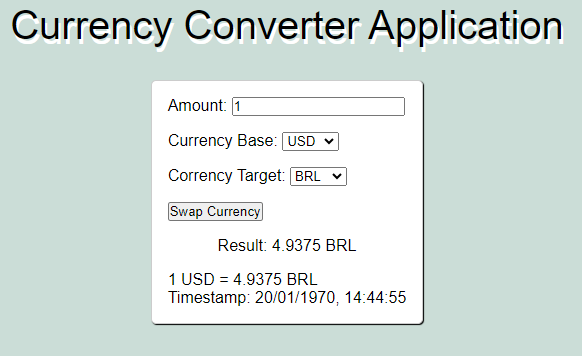
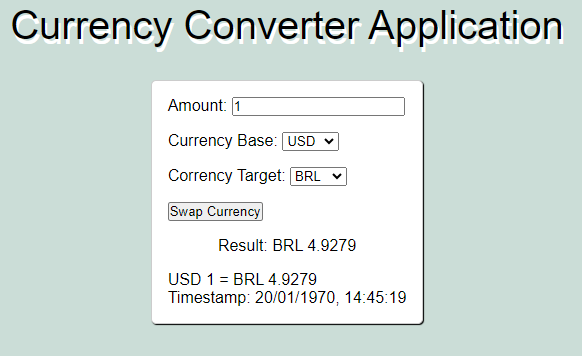
Finalização do projeto
- Resolvido problema com CORS na API, foi adicionado o middleware de CORS no backend.

- Removido código provisório do frontend, e adicionada lógica que utiliza a resposta da API.

- Alterado formação na exibição de dinheiro, com a sigla da moeda na frente do número.

diff --git a/frontend/src/components/ConvertForm.jsx b/frontend/src/components/ConvertForm.jsx
@@ -1,8 +1,7 @@
 import React, { useEffect, useRef , useState } from "react"
-import {dataSimulate} from "../data"
 
 export const ConvertForm = () => {
-    const [amount, setAmount] = useState(1.0000)
+    const [amount, setAmount] = useState(1)
     const [result, setResult] = useState(0)
     const [currencyBase, setCurrencyBase] = useState("USD")
     const [currencyTarget, setCurrencyTarget] = useState("BRL")
@@ -30,16 +29,13 @@ export const ConvertForm = () => {
             fetch(url)
             .then(response => response.json())
             .then(data => {
-                console.log("data", data)
+                setSymbols(data.symbols)
+                setRates(data.values)
+                const rateTime = new Date(data.timestamp)
+                setTimestemp(rateTime.toLocaleString())
             })
             .catch(error => {
                 console.log("error", error)
-                const dataJson =  JSON.parse(dataSimulate())
-                setSymbols(dataJson.symbols)
-                setRates(dataJson.values)
-                console.log(dataJson.timestamp)
-                const rateTime = new Date(dataJson.timestamp)
-                setTimestemp(rateTime.toLocaleString())
             })
 
             requested.current = true
@@ -95,10 +91,10 @@ export const ConvertForm = () => {
             </div>
 
             <div>
-                <p className="output" style={{textAlign:"center"}}>Result: {result} {currencyTarget}</p>
+                <p className="output" style={{textAlign:"center"}}>Result: {currencyTarget} {result}</p>
             </div>
                 <div>
-                    <p>1 {currencyBase} = {calculateConvert(1, currencyBase, currencyTarget)} {currencyTarget}</p>
+                    <p>{currencyBase} 1 = {currencyTarget} {calculateConvert(1, currencyBase, currencyTarget)}</p>
                     <p>Timestamp: {timestemp}</p>
                 </div>
         </form>    

diff --git a/backend/Program.cs b/backend/Program.cs
@@ -1,9 +1,19 @@
 using Backend;
 
+var  MyAllowSpecificOrigins = "_myAllowSpecificOrigins";
+
 var builder = WebApplication.CreateBuilder(args);
 
 // Add services to the container.
 // Learn more about configuring Swagger/OpenAPI at https://aka.ms/aspnetcore/swashbuckle
+builder.Services.AddCors(options =>
+{
+    options.AddPolicy(name: MyAllowSpecificOrigins,
+                      policy  =>
+                      {
+                          policy.WithOrigins("http://localhost:5173");
+                      });
+});
 builder.Services.AddControllers();
 builder.Services.AddEndpointsApiExplorer();
 builder.Services.AddSwaggerGen();
@@ -22,6 +32,8 @@ var dotenv = Path.Combine(root, ".env");
 DotEnv.Load(dotenv);
 
 app.UseHttpsRedirection();
+
+app.UseCors(MyAllowSpecificOrigins);
 
 app.MapControllers();
 
